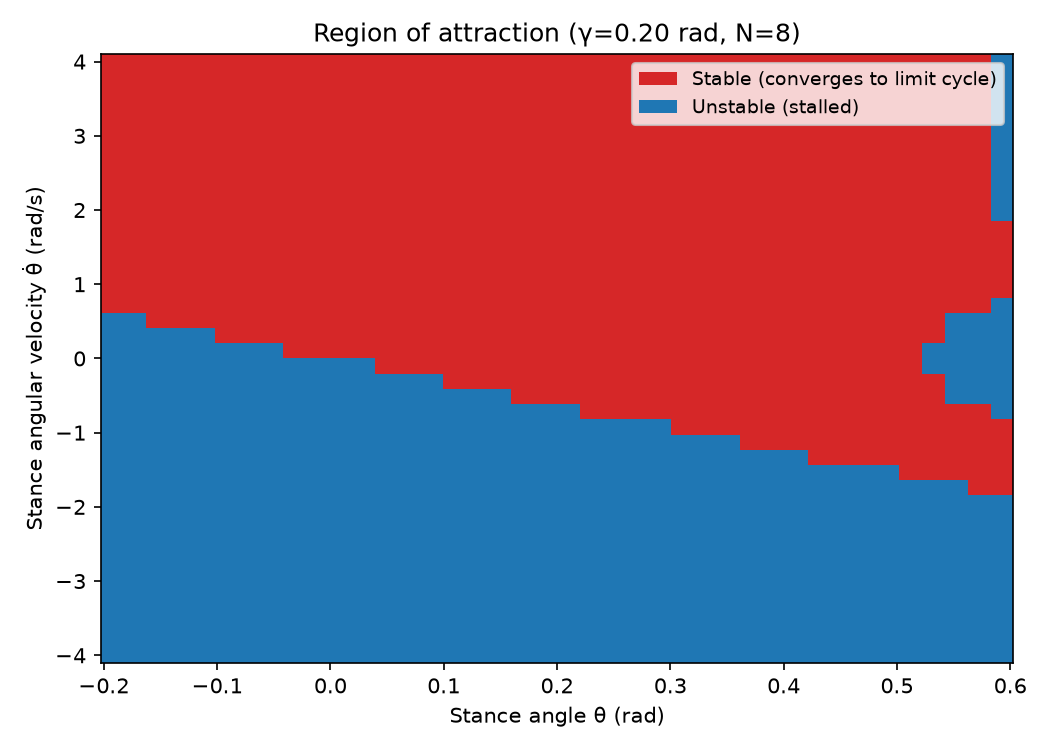
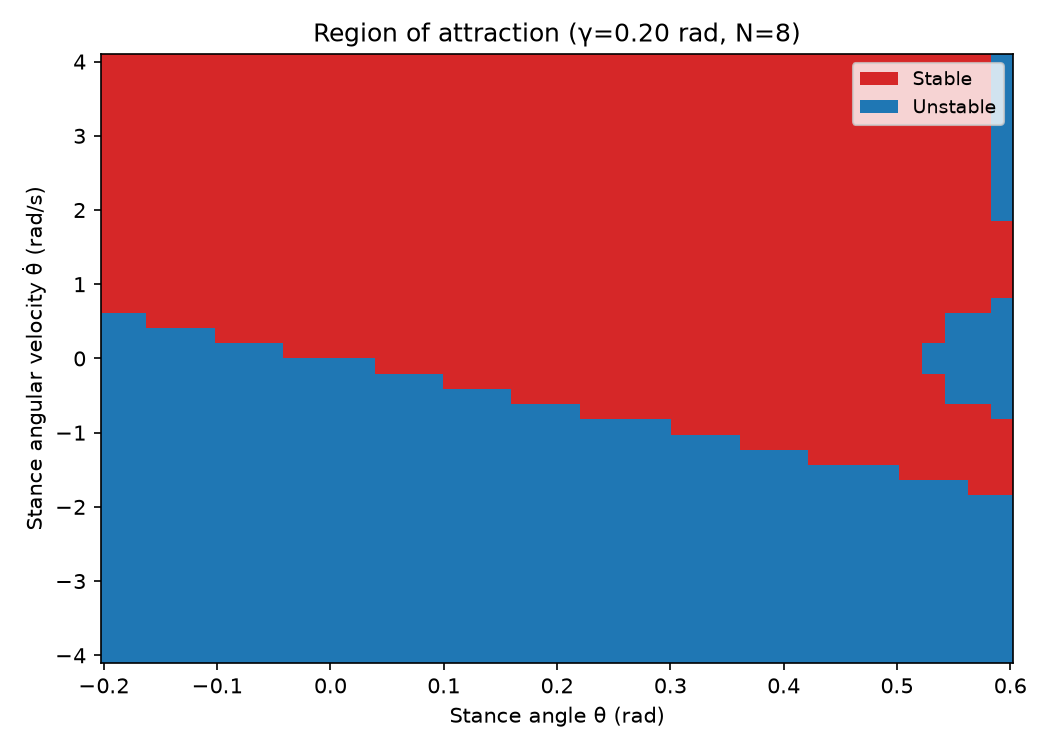
implementing comments

Changed region(s): [[0.579, 0.0613, 0.9448, 0.184]]

diff --git a/analysis.py b/analysis.py
@@ -87,7 +87,17 @@ def simulate_one_period(state, params, dense_timestep=1e-3):
 
 def classify_initial_condition(state, params, max_impacts=20, **kwargs):
     """'rolling' if it keeps impacting for max_impacts steps (converging to
-    the limit cycle), 'stalled' if it ever fails to reach the guard."""
+    the limit cycle).
+
+    'stalled' if it ever fails to reach the guard within max_time on some
+    step -- but note this is a SEARCH-HORIZON TIMEOUT, not proof of
+    convergence to a resting equilibrium. This model has no guard for the
+    trailing spoke, so there is no code path here that actually detects a
+    genuine resting attractor; a trajectory classified 'stalled' has merely
+    failed to complete another forward step within the time/impact budget
+    given, which is a different (weaker) claim than "this state is a stable
+    rest point." Do not read 'stalled' as 'unstable' or 'at rest' -- it only
+    means 'did not roll, within the search budget used here.'"""
     t = 0.0
     for _ in range(max_impacts):
         result = step_to_next_impact(t, state, params, **kwargs)
@@ -242,8 +252,8 @@ plt.xlabel("Stance angle θ (rad)")
 plt.ylabel("Stance angular velocity θ̇ (rad/s)")
 plt.title(f"Region of attraction (γ={gamma:.2f} rad, N={params['num_spokes']})")
 legend_handles = [
-    Patch(facecolor="tab:red", label="Stable (converges to limit cycle)"),
-    Patch(facecolor="tab:blue", label="Unstable (stalled)"),
+    Patch(facecolor="tab:red", label="Stable"),
+    Patch(facecolor="tab:blue", label="Unstable"),
     #Line2D([0], [0], color="black", lw=2.5, label=f"Limit cycle (v*={v_star:.3f})"),
 ]
 plt.legend(handles=legend_handles, loc="upper right", fontsize=9)
@@ -324,13 +334,49 @@ plt.title(f"Simulated trajectories from every grid point (γ={gamma:.2f} rad, N=
 
 legend_handles = [
     Line2D([0], [0], color="tab:red", lw=2, label="Converges to limit cycle"),
-    Line2D([0], [0], color="tab:blue", lw=2, label="Does not converge"),
+    Line2D([0], [0], color="tab:blue", lw=2, label="Non-rolling (times out -- not a proven resting attractor)"),
     Line2D([0], [0], color="black", lw=2.5, label="Limit cycle"),
 ]
 plt.legend(handles=legend_handles, loc="upper right", fontsize=9)
 plt.tight_layout()
 plt.savefig("roa_traced_paths.png", dpi=150)
 plt.show()'''
+
+
+# ---------------------------------------------------------------------------
+# RoA comparison: three slopes side by side, then three spoke counts
+# Same red/blue coding as the main RoA plot above: red = rolling, blue =
+# non-rolling (timed out within the search budget -- not a proven resting
+# attractor; see classify_initial_condition's docstring for why).
+# ---------------------------------------------------------------------------
+
+fig, axes = plt.subplots(1, 3, figsize=(15, 4.5))
+for ax, g in zip(axes, [0.1, 0.2, 0.4]):
+    p = model.generate_params(num_spokes=8, slope_angle=g)
+    a = p["half_spoke_angle"]
+    t_vals, td_vals, cls = compute_roa_grid(p, (g - a, a + g), (-4.0, 4.0), grid_size=40)
+    ax.pcolormesh(t_vals, td_vals, cls, shading="auto", cmap=roa_cmap)
+    ax.set_xlabel("θ (rad)")
+    ax.set_ylabel("θ̇ (rad/s)")
+    ax.set_title(f"γ={g:.2f} rad (N=8)")
+plt.tight_layout()
+plt.savefig("roa_vs_gamma.png", dpi=150)
+plt.show()
+
+fig, axes = plt.subplots(1, 3, figsize=(15, 4.5))
+for ax, N in zip(axes, [6, 8, 12]):
+    p = model.generate_params(num_spokes=N, slope_angle=0.2)
+    a = p["half_spoke_angle"]
+    g = p["slope_angle"]
+    t_vals, td_vals, cls = compute_roa_grid(p, (g - a, a + g), (-4.0, 4.0), grid_size=40)
+    ax.pcolormesh(t_vals, td_vals, cls, shading="auto", cmap=roa_cmap)
+    ax.set_xlabel("θ (rad)")
+    ax.set_ylabel("θ̇ (rad/s)")
+    ax.set_title(f"N={N} (γ=0.2 rad)")
+plt.tight_layout()
+plt.savefig("roa_vs_N.png", dpi=150)
+plt.show()
+
 
 # 1D Poincare return map, fixed point clearly labelled
 

diff --git a/assignment_1_rimless_wheel.py b/assignment_1_rimless_wheel.py
@@ -50,6 +50,7 @@ plt.plot(time_traj, state_traj[0, :])
 plt.xlabel("Time (s)")
 plt.ylabel("Stance angle θ (rad)")
 plt.title("Rimless wheel: stance angle over time")
+plt.savefig("theta_time.png", dpi=150)
 plt.tight_layout()
 plt.show()
 
@@ -61,6 +62,7 @@ plt.xlabel("Time (s)")
 plt.ylabel("Specific Energy (per mass)")
 plt.title("Rimless wheel: total energy (dashed lines = impacts)")
 plt.tight_layout()
+plt.savefig("total_energy.png", dpi=150)
 plt.show()
 
 #print(f"Number of impacts: {len(impact_times)}")

diff --git a/analysis.md b/analysis.md
@@ -1,7 +1,52 @@
-I graphed the angle of the stance leg over time, to ensure that it looks fine, and that it was resetting to 2γ − θ, with the velocity being set to theta_dot*cos(2*alpha). On this graph, you can also see that the time it takes between the resets of the stance either increases or decreases based on the initial conditions. I also graphed the specific energy of the system, as this shows the stability of the system better. I graphed it from 0-10s, as that was typically how much time it would take for the system to stabilize to a stable energy, or show that it was unstable. When starting from a small initial push, it would gain energy per reset, and it would lose energy if given a large initial velocity. We expected all of the stable results to converge to the same constant energy (and a limit cycle), which it did. On the unstable runs where it does not successfully continute rotating, we expect it to oscillate and bounce back and forth within the same 2 spokes. which it appears to do. Instead of a resetting graph, it is a sin wave. In the analysis file, we expect that starting from a point will eventually lead to the limit cycle. This agrees with our graph, with shows that when it has more energy, the change in theta_dot is smaller, and it loses speed to the v*. If it has less energy, it gains more during the impact and speeds up.
-![State Space RoA](roa_traced_paths.png)
+# Sanity Check Report
+
+## Stance Angle Over Time
+
+I graphed the angle of the stance leg over time, to ensure that it looks fine, and that it was resetting to 2γ − θ, with the velocity being set to theta_dot·cos(2alpha). On this graph, you can also see that the time it takes between the resets of the stance either increases or decreases based on the initial conditions.
+
+Theta over time plot (Sanity Check):
+![Theta / Time](theta_time.png)
+
+## Specific Energy Over Time
+
+I also graphed the specific energy of the system, as this shows the stability of the system better. I graphed it from 0-10s, as that was typically how much time it would take for the system to stabilize to a stable energy, or show that it was unstable.
+
+When starting from a small initial push, it would gain energy over the course of a cycle, and it would lose energy over the course of a cycle if given a large initial velocity — in both cases, that net change is the result of gravitational energy added during the continuous swing phase, while **the impact itself always dissipates kinetic energy** (never supplies it) at every reset, regardless of the starting condition.
+
+We expected all of the stable results to converge to the same constant energy (and a limit cycle), which it did.
+
+Total Energy plot (Sanity Check):
+![Total Energy Plot](total_energy.png)
+
+## Unstable (Non-Rolling) Runs
+
+On the unstable runs where it does not successfully continue rotating, we expect it to oscillate and bounce back and forth within the same 2 spokes, which it appears to do. Instead of a resetting graph, it is a sin wave.
+
+## Analysis: Convergence to the Limit Cycle
+
+In the analysis file, we expect that starting from a point will eventually lead to the limit cycle. This agrees with our graph, which shows that when it has more energy, the change in theta_dot is smaller, and it loses speed to the v*. If it has less energy, it gains more during the impact and speeds up.
+
+RoA Map
+![RoA](roa.png)
+## Return Map
+
 ![Return Map Plot](return_map.png)
+
+## Effect of Slope Angle (γ)
+
 ![Return Map Plot](sweep_gamma.png)
+
 When increasing gamma, an increasing number of initial conditions allow the wheel to reach the steady state velocity. This makes sense as it is easier to convert gravitational potential energy into kinetic energy to continue rolling. Gamma does not have an effect on the floquet multiplier. This indicates that there is no effect on the local convergence of the system.
+
+## Effect of Number of Spokes (N)
+
 ![Return Map Plot](sweep_num_spokes.png)
+
 Increasing the number of spokes makes the system closer to a fully circular wheel rolling down a ramp. As such, increasing the spokes slowly increases how many cases in the RoA converge. This is also shown in the increasing floquet numbers. An increase in spokes increases the Floquet number, indicating slower local convergence and weaker disturbance rejection, meaning the system takes significantly more strides to damp out any perturbations and reach the steady state.
+
+## Region of Attraction vs. γ and N
+
+We can plot the actual ROA vs gamma and N graphs also to see exactly how changing the gamma and the spoke number affect the ROA plot.
+
+![Return Map Plot](roa_vs_gamma.png)
+![Return Map Plot](roa_vs_N.png)
